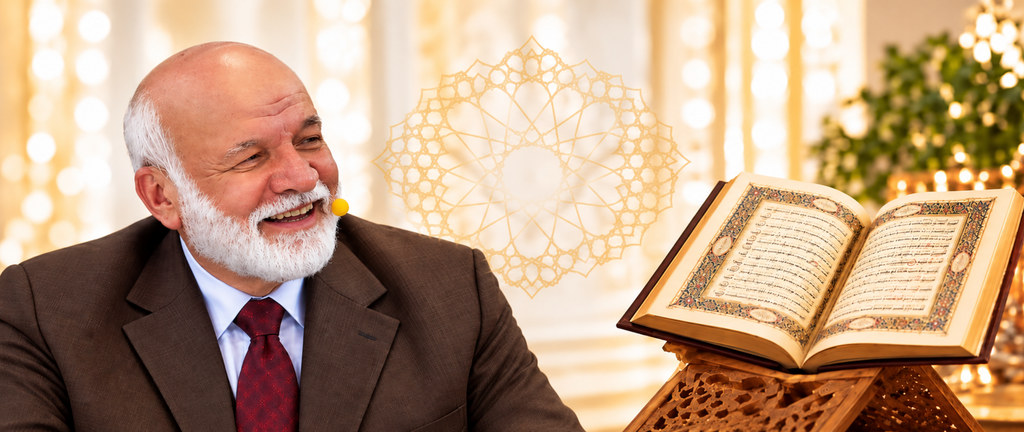
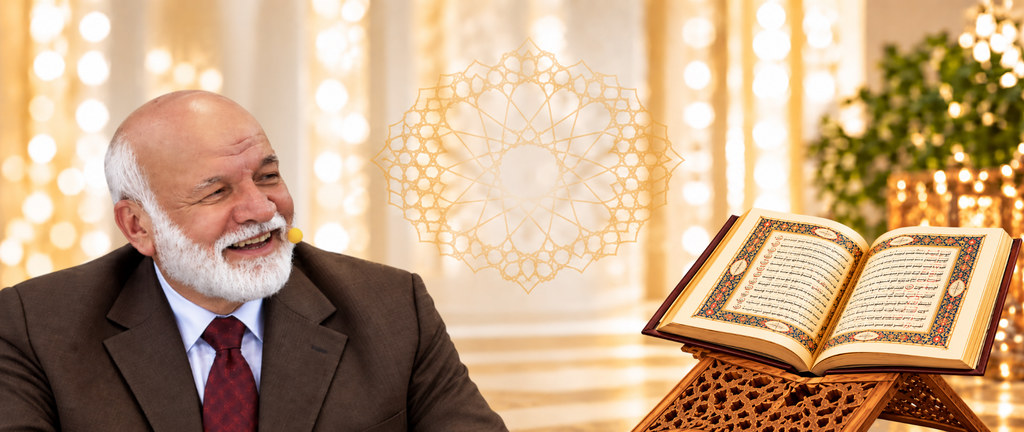
Sosyal ikonlari marka renklerine cevir, afisi tasarim oranina kilitle
Ikonlar artik cizgi degil, her biri kendi markasinin dolu simgesi:
Instagram kendi renk gecisiyle, YouTube kirmizi kutu + beyaz ucgen,
Facebook mavi f, TikTok siyah nota, WhatsApp yesil baloncuk. Halkanin
ici saydam; seridin zemini neyse o goruluyor. Koyu bolumlerde TikTok
beyaza doner, yoksa siyah simge koyu zeminde kayboluyordu.

Afis kutusunun orani kapak tasarimina (2560x1080) kilitlendi. Once
yukseklik "ekran - seritler" diye hesaplaniyor, kutunun orani ekrana
gore 1.86-2.96 arasinda geziniyor ve tasarim yanlardan kirpiliyordu;
Kur'an-i Kerim'in sag kenari kesiliyordu. Artik hicbir yeri kirpilmiyor.
Bedeli, menunun her ekranda tam alt kenarda bitmemesi.

- Afis boylari guncel intro2.png'den yeniden uretildi

diff --git a/index.html b/index.html
@@ -26,8 +26,8 @@
     rel="stylesheet">
 
   <link rel="stylesheet" href="css/base.css">
-  <link rel="stylesheet" href="css/layout.css?v=20261003-3">
-  <link rel="stylesheet" href="css/sections/hero.css?v=20261003-15">
+  <link rel="stylesheet" href="css/layout.css?v=20261004-3">
+  <link rel="stylesheet" href="css/sections/hero.css?v=20261004-1">
   <link rel="stylesheet" href="css/sections/manifesto.css?v=20261003-1">
   <link rel="stylesheet" href="css/sections/instagram.css">
   <link rel="stylesheet" href="css/sections/broadcast.css">
@@ -90,42 +90,54 @@
       <p class="navbar__wordmark">Her An Kur&rsquo;an Her An Mutluluk</p>
 
       <div class="navbar__actions">
-        <a class="navbar__icon" href="https://www.instagram.com/herankuranheranmutluluk" target="_blank" rel="noopener noreferrer"
+        <a class="navbar__icon navbar__icon--ig" href="https://www.instagram.com/herankuranheranmutluluk" target="_blank" rel="noopener noreferrer"
           aria-label="Instagram">
-          <svg viewBox="0 0 24 24" fill="none" stroke="currentColor" stroke-width="1.6">
-            <rect x="3" y="3" width="18" height="18" rx="5" />
-            <circle cx="12" cy="12" r="4.2" />
-            <circle cx="17.2" cy="6.8" r="1.1" fill="currentColor" stroke="none" />
+          <svg viewBox="0 0 24 24" aria-hidden="true">
+            <defs>
+              <linearGradient id="ig-gradient" x1="8%" y1="92%" x2="92%" y2="8%">
+                <stop offset="0" stop-color="#FFD764" />
+                <stop offset="0.28" stop-color="#FA7E1E" />
+                <stop offset="0.56" stop-color="#D62976" />
+                <stop offset="0.8" stop-color="#962FBF" />
+                <stop offset="1" stop-color="#4F5BD5" />
+              </linearGradient>
+            </defs>
+            <path fill="url(#ig-gradient)"
+              d="M8.2 2.5h7.6a5.7 5.7 0 0 1 5.7 5.7v7.6a5.7 5.7 0 0 1-5.7 5.7H8.2a5.7 5.7 0 0 1-5.7-5.7V8.2a5.7 5.7 0 0 1 5.7-5.7zm-.18 2.2A3.32 3.32 0 0 0 4.7 8.02v7.96a3.32 3.32 0 0 0 3.32 3.32h7.96a3.32 3.32 0 0 0 3.32-3.32V8.02A3.32 3.32 0 0 0 15.98 4.7H8.02z" />
+            <path fill="url(#ig-gradient)"
+              d="M12 7.3a4.7 4.7 0 1 1 0 9.4 4.7 4.7 0 0 1 0-9.4zm0 2.2a2.5 2.5 0 1 0 0 5 2.5 2.5 0 0 0 0-5z" />
+            <circle fill="url(#ig-gradient)" cx="17.05" cy="6.95" r="1.18" />
           </svg>
         </a>
-        <a class="navbar__icon" href="https://www.youtube.com/@HeranKuranHeranMutluluk" target="_blank" rel="noopener noreferrer"
+        <a class="navbar__icon navbar__icon--yt" href="https://www.youtube.com/@HeranKuranHeranMutluluk" target="_blank" rel="noopener noreferrer"
           aria-label="YouTube">
-          <svg viewBox="0 0 24 24" fill="none" stroke="currentColor" stroke-width="1.6">
-            <rect x="2.5" y="5.5" width="19" height="13" rx="3.5" />
-            <path d="M10 9.3v5.4l4.8-2.7z" fill="currentColor" stroke="none" />
+          <svg viewBox="0 0 24 24" aria-hidden="true">
+            <path fill="#FF0000"
+              d="M21.6 7.17a2.52 2.52 0 0 0-1.77-1.78C18.25 4.96 12 4.96 12 4.96s-6.25 0-7.83.43A2.52 2.52 0 0 0 2.4 7.17 26.2 26.2 0 0 0 1.97 12c0 1.64.14 3.27.43 4.83a2.52 2.52 0 0 0 1.77 1.78c1.58.43 7.83.43 7.83.43s6.25 0 7.83-.43a2.52 2.52 0 0 0 1.77-1.78c.29-1.56.43-3.19.43-4.83 0-1.64-.14-3.27-.43-4.83z" />
+            <path fill="#fff" d="M10.02 15.17V8.83L15.3 12z" />
           </svg>
         </a>
-        <a class="navbar__icon" href="https://www.facebook.com/hkuranhmutluluk" target="_blank" rel="noopener noreferrer"
+        <a class="navbar__icon navbar__icon--fb" href="https://www.facebook.com/hkuranhmutluluk" target="_blank" rel="noopener noreferrer"
           aria-label="Facebook">
-          <svg viewBox="0 0 24 24" fill="none" stroke="currentColor" stroke-width="1.6">
-            <path
-              d="M14.5 8.5H17V5h-2.8C11.9 5 10.6 6.6 10.6 9v2H8v3.4h2.6V21h3.5v-6.6h2.7l.5-3.4h-3.2V9.2c0-.5.2-.7.4-.7z" />
+          <svg viewBox="0 0 24 24" aria-hidden="true">
+            <path fill="#1877F2"
+              d="M15.12 5.32H17V2.14A26.1 26.1 0 0 0 14.26 2C11.54 2 9.68 3.66 9.68 6.7v2.62H6.61v3.56h3.07V22h3.68v-9.12h3.06l.46-3.56h-3.52V7.05c0-1.03.28-1.73 1.76-1.73z" />
           </svg>
         </a>
-        <a class="navbar__icon" href="https://www.tiktok.com/@herankuranheranmutluluk" target="_blank" rel="noopener noreferrer"
+        <a class="navbar__icon navbar__icon--tt" href="https://www.tiktok.com/@herankuranheranmutluluk" target="_blank" rel="noopener noreferrer"
           aria-label="TikTok">
-          <svg viewBox="0 0 24 24" fill="none" stroke="currentColor" stroke-width="1.6" stroke-linecap="round"
-            stroke-linejoin="round">
-            <path d="M14.4 3v10.9a3.6 3.6 0 1 1-3.1-3.57" />
-            <path d="M14.4 3c.5 2.4 2 3.9 4.4 4.2" />
+          <svg viewBox="0 0 24 24" aria-hidden="true">
+            <path fill="#121212"
+              d="M16.6 2h-3.1v13.08a2.37 2.37 0 1 1-1.7-2.27V9.68a5.4 5.4 0 1 0 4.8 5.37V8.52a6.6 6.6 0 0 0 3.7 1.14V6.56A3.7 3.7 0 0 1 16.6 2.9z" />
           </svg>
         </a>
         <a class="navbar__icon navbar__icon--wa" href="https://wa.me/905434600460" target="_blank" rel="noopener noreferrer"
           aria-label="WhatsApp ile iletişime geç">
-          <svg viewBox="0 0 24 24" fill="none" stroke="currentColor" stroke-width="1.6"
-               stroke-linecap="round" stroke-linejoin="round">
-            <path d="M12.03 3.2a8.8 8.8 0 0 0-7.4 13.5L3.13 20.8l4.3-1.4A8.8 8.8 0 1 0 12.03 3.2z" />
-            <path d="M9.1 8.6c.3-.6.6-.6.9-.6h.6c.2 0 .5 0 .7.6l.7 1.7c.1.3 0 .5-.1.7l-.4.5c-.1.2-.2.3 0 .6a6.2 6.2 0 0 0 2.6 2.3c.3.1.4 0 .6-.1l.5-.6c.2-.2.4-.2.6-.1l1.6.8c.3.1.5.3.5.5 0 .4-.2 1.2-.6 1.5-.4.4-1 .6-1.6.6a8 8 0 0 1-6.7-6.6c0-.7.1-1.3.5-1.8z" />
+          <svg viewBox="0 0 24 24" aria-hidden="true">
+            <path fill="#25D366"
+              d="M12.04 2.4a9.6 9.6 0 0 0-8.1 14.72L2.5 21.6l4.6-1.4a9.6 9.6 0 1 0 4.94-17.8z" />
+            <path fill="#fff"
+              d="M9.1 7.9c.25-.56.52-.57.76-.58h.64c.2 0 .47.04.68.58l.72 1.76c.1.25.03.47-.1.66l-.4.5c-.12.16-.22.3-.03.6a6.4 6.4 0 0 0 2.7 2.36c.27.13.42.07.57-.1l.5-.6c.19-.2.37-.2.57-.1l1.62.84c.26.14.44.3.44.5 0 .4-.22 1.2-.62 1.5-.4.3-.97.5-1.56.5a8.2 8.2 0 0 1-6.83-6.8c0-.7.13-1.3.44-1.82z" />
           </svg>
         </a>
       </div>
@@ -163,8 +175,8 @@
                göre seçsin diye üç boy: telefon 1024, masaüstü 1920, yüksek
                çözünürlüklü ekran 2560. Afiş her boyutta ekran genişliği
                kadar (sizes="100vw"). -->
-          <img src="assets/intro2-hero.jpg?v=3"
-            srcset="assets/intro2-hero-sm.jpg?v=3 1024w, assets/intro2-hero.jpg?v=3 1920w, assets/intro2-hero-2x.jpg?v=3 2560w"
+          <img src="assets/intro2-hero.jpg?v=5"
+            srcset="assets/intro2-hero-sm.jpg?v=5 1024w, assets/intro2-hero.jpg?v=5 1920w, assets/intro2-hero-2x.jpg?v=5 2560w"
             sizes="100vw"
             alt="" loading="eager" decoding="async"
             width="2560" height="1080">

diff --git a/css/layout.css b/css/layout.css
@@ -151,28 +151,35 @@
   align-items: center;
   gap: clamp(0.4rem, 0.9vw, 0.75rem);
 }
+/* Simgeler SVG'nin kendi içinde marka renkleriyle DOLU çiziliyor
+   (index.html). Halkanın içi boş: şeridin zemini neyse o görünür —
+   beyaz daire değil, yalnızca ince bir çerçeve. */
 .navbar__icon {
   display: grid;
   place-items: center;
   width: clamp(32px, 2.9vw, 42px);
   height: clamp(32px, 2.9vw, 42px);
-  border: 1px solid var(--border-dark-soft);
+  border: 1px solid rgba(27, 24, 21, 0.16);
   border-radius: 50%;
-  color: var(--text-dark);
-  background: #fff;
-  transition: color 0.3s, border-color 0.3s, background-color 0.3s, transform 0.3s var(--ease-out);
+  background: transparent;
+  transition: border-color 0.3s, background-color 0.3s, transform 0.3s var(--ease-out);
 }
-.navbar__icon svg { width: 52%; height: 52%; }
-.navbar.is-dark .navbar__icon {
-  color: var(--text-light);
-  background: rgba(255, 255, 255, 0.06);
-  border-color: var(--border-soft);
-}
+.navbar__icon svg { width: 56%; height: 56%; display: block; }
+/* Koyu bölümlerde çerçeve açılır; simgeler renklerini korur. Tek istisna
+   TikTok: simgesi siyah olduğu için koyu zeminde kayboluyordu — markanın
+   kendi kuralı da koyu zeminde beyaz kullanmak. */
+.navbar.is-dark .navbar__icon { border-color: rgba(255, 255, 255, 0.28); }
+.navbar.is-dark .navbar__icon--tt path { fill: #FFFDF8; }
+
+/* Üzerine gelince simge hafifçe büyür, çerçeve belirginleşir. */
 .navbar__icon:hover {
-  color: var(--text-dark);
-  background: var(--brand-yellow);
-  border-color: var(--brand-yellow);
+  border-color: rgba(27, 24, 21, 0.4);
+  background: rgba(27, 24, 21, 0.05);
   transform: translateY(-2px);
+}
+.navbar.is-dark .navbar__icon:hover {
+  border-color: rgba(255, 255, 255, 0.6);
+  background: rgba(255, 255, 255, 0.1);
 }
 
 /* burger */

diff --git a/css/sections/hero.css b/css/sections/hero.css
@@ -17,11 +17,13 @@
   position: relative;
   margin: 0;
   width: 100%;
-  /* Afiş, ilk ekranda üst şerit ile menü şeridi arasındaki BÜTÜN yeri
-     kaplar; böylece menü tam ekranın alt kenarında durur. İki şeridin
-     yüksekliğini js/sections/navbar.js ölçüp yazıyor. */
-  height: calc(100svh - var(--nav-h, 104px) - var(--menu-h, 72px));
-  min-height: 320px;
+  /* Kutu, kapak tasarımının oranına KİLİTLİ (2560x1080). Daha önce
+     yükseklik "ekran - şeritler" diye hesaplanıyordu; o zaman kutunun
+     oranı ekrandan ekrana 1.86-2.96 arasında geziniyor ve tasarım
+     yanlardan kırpılıyordu — Kur'an-ı Kerim'in sağ kenarı kesiliyordu.
+     Oran sabitlenince Canva'da yapılan ne ise ekranda birebir o görünür.
+     Menü de çoğu ekranda yine alt kenara yakın düşüyor. */
+  aspect-ratio: 2560 / 1080;
   overflow: hidden;
   background: var(--background-dark-soft);
 }
@@ -168,12 +170,8 @@
      16:9'da genişliğin üçte biri kırpılıyor ve sahne iyice yakınlaşmış
      duruyordu; 2.1:1'de kırpma onda bire iniyor, Hocamız da Kur'an-ı
      Kerim de kadraja giriyor. */
-  .hero__visual {
-    height: auto;
-    aspect-ratio: 2.1 / 1;
-    min-height: 0;
-  }
-  .hero__visual .live-cover img { object-position: center; }
+  /* Telefonda da tasarımın kendi oranı — kırpma yok. */
+  .hero__visual { aspect-ratio: 2560 / 1080; }
 
   /* Düğme dar afişte ekranı boğmasın: küçülüyor ve ortanın biraz
      üstüne alınıyor — tam ortada Hocamızın yüzüne denk geliyordu,
